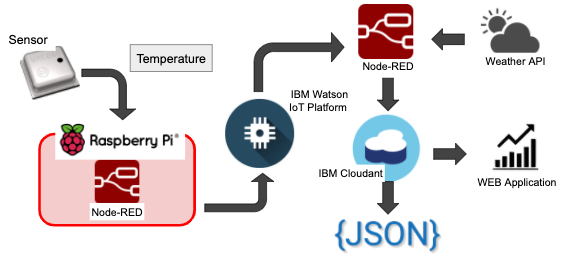
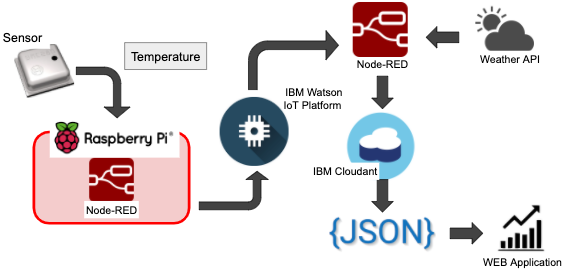
Change Image

Changed region(s): [[0.0301, 0.0, 0.9645, 0.9961], [0.0, 0.1245, 0.3918, 0.4669], [0.844, 0.4669, 0.9947, 0.9961]]

diff --git a/README.md b/README.md
@@ -27,6 +27,11 @@ A tool for developers confronting climate change
 ## The architecture
 ![Architecture](https://github.com/RyogaTakao/ClimateForNinja/blob/futureSever/fig/Architecture.png)
 
+1. It processes the data measured by the sensor and running Node-RED on Raspberry Pi.
+1. It sends processed data to IBM Watson IoT Platform, and then it loads the data posted on IBM Watson IoT Platform and IBM Cloudant stores it and the data of outside temperature with Weather API.
+1. It creates a web application based on the stored data.
+
+
 ## Long description
 
 According to IBM global study conducted by Morning Consult , Eight out of  ten respondents agree with the idea that “people want to do something to help combat climate change, but don't know where to start.”
